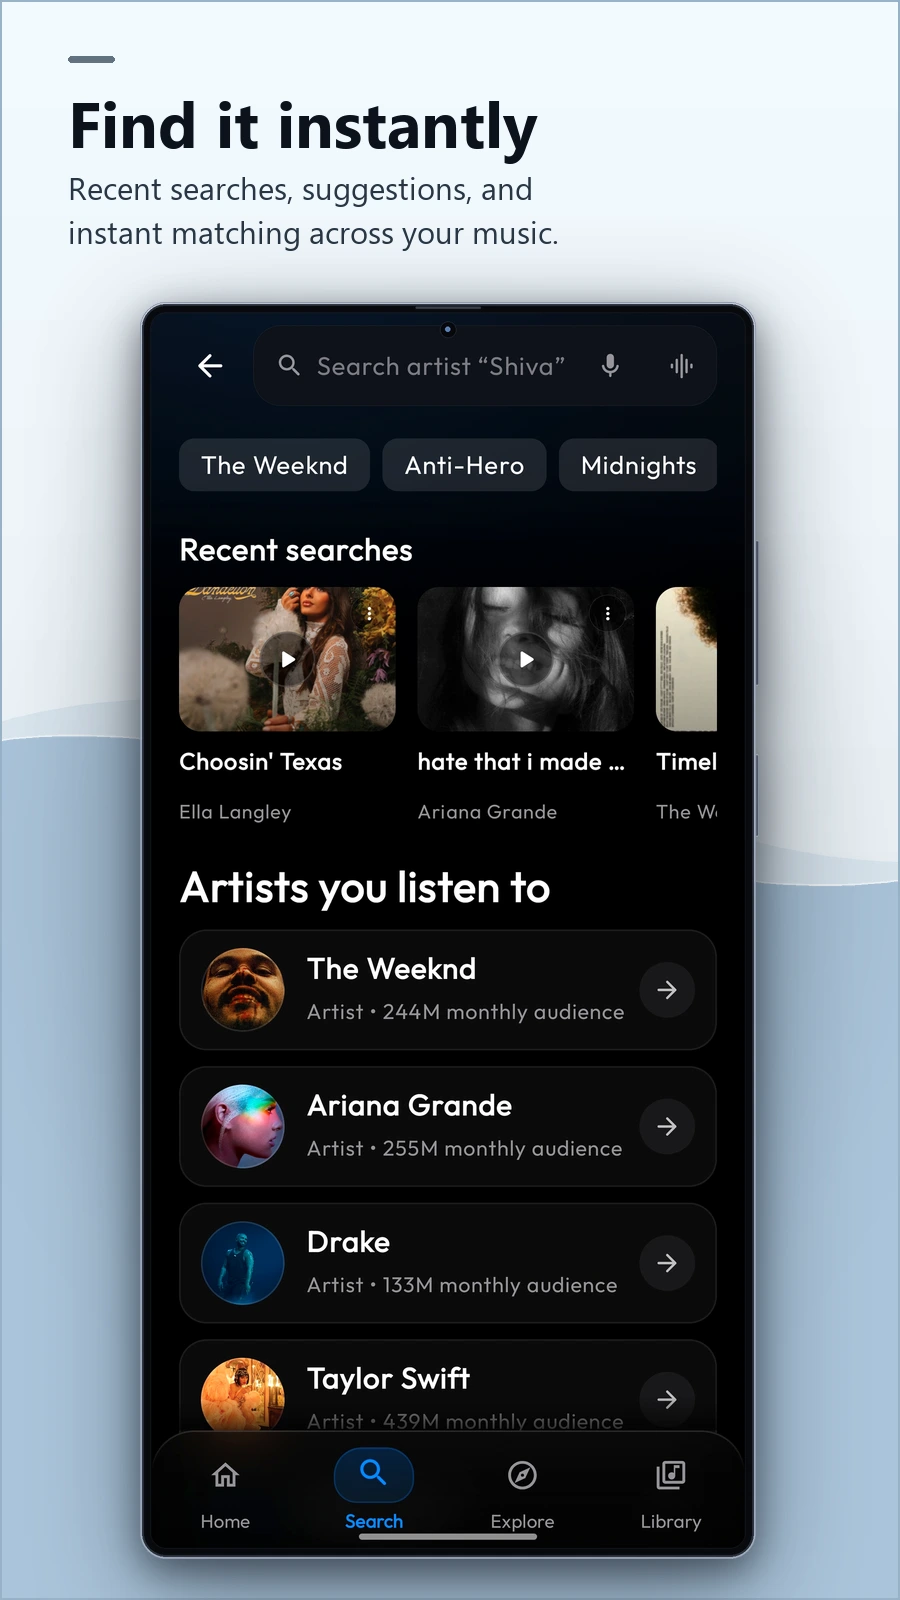
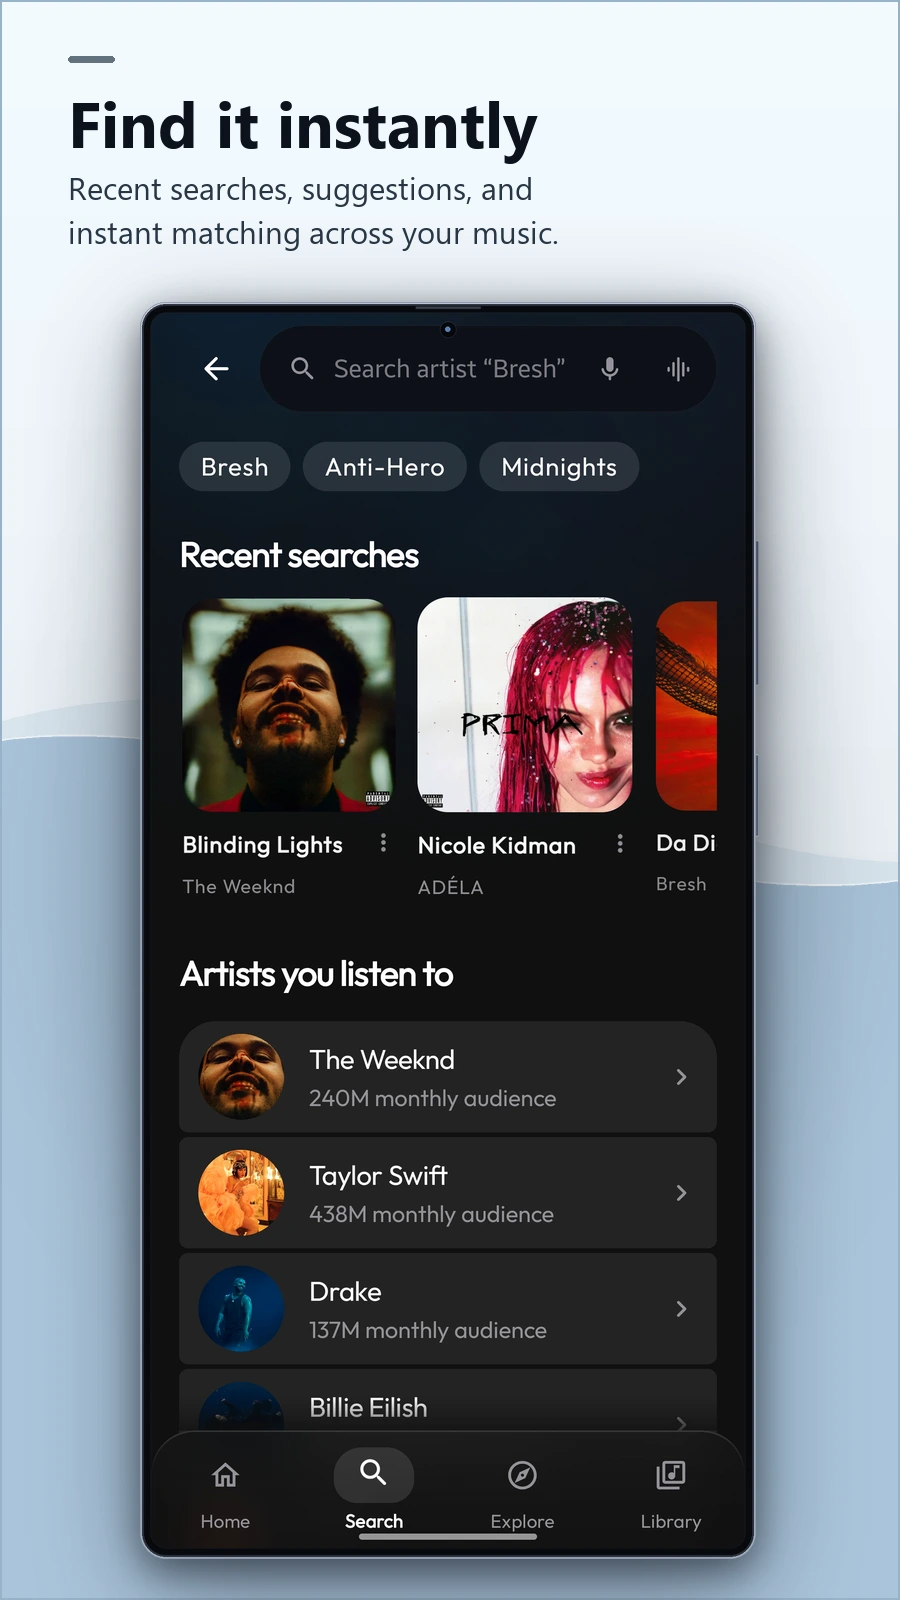
docs(readme): update Find it instantly showcase card with latest search UI

diff --git a/scripts/generate_showcase_assets.py b/scripts/generate_showcase_assets.py
@@ -665,7 +665,7 @@ def generate_feature_cards():
         (4, "07_genres.webp", "Screenshot_20261010_132249_LEVYRA.jpg", "Pick a direction", "Move through moods, vibes, and genres\ncrafted for every moment.", C_SAGE),
         (5, "08_audio_tuning.webp", "Screenshot_20260926_194845_LEVYRA.jpg", "Shape the playback", "Sleep timer, tempo tuning, loudness norm,\nand advanced audio engine.", C_CELESTE),
         (6, "09_album.webp", "Screenshot_20260926_194706_LEVYRA.jpg", "Open the album", "High-resolution artwork, release info,\nand complete tracklists.", C_CASHMERE),
-        (7, "10_search.webp", "Screenshot_20260926_194736_LEVYRA.jpg", "Find it instantly", "Recent searches, suggestions, and\ninstant matching across your music.", C_CELESTE),
+        (7, "10_search.webp", "Screenshot_20261010_145010_LEVYRA.jpg", "Find it instantly", "Recent searches, suggestions, and\ninstant matching across your music.", C_CELESTE),
         (8, "11_collections.webp", "Screenshot_20261010_132136_LEVYRA.jpg", "Curated for you", "Handpicked playlists and gems\nrevolving around what you love.", C_TWILIGHT),
         (9, "12_listening_rhythm.webp", "Screenshot_20260927_131943_LEVYRA.jpg", "Your listening rhythm", "Activity heatmaps, peak hours, and\nyour personal listening cadence.", C_SAGE),
         (10, "13_your_orbit.webp", "Screenshot_20261010_132103_LEVYRA.jpg", "In your orbit", "The songs and artists that always return\nto your rotation.", C_TWILIGHT),
